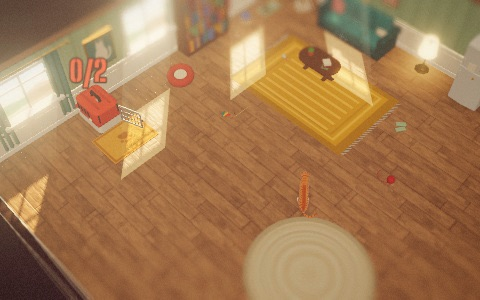
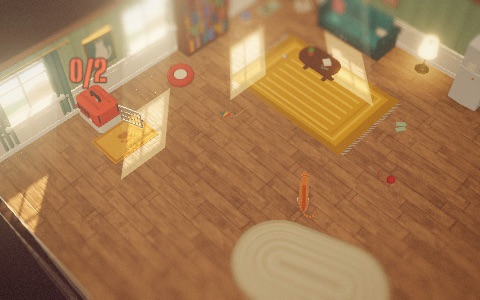
Oval braided rugs laid along the free floor; room cards and store pictures redrawn

Changed region(s): [[0.4688, 0.72, 0.75, 0.99], [0.75, 0.84, 0.8125, 1.0]]

diff --git a/src/render/room.js b/src/render/room.js
@@ -770,31 +770,62 @@ function plaidTexture(color) {
     return new THREE.MeshStandardMaterial({ map: t, roughness: 0.97 });
   });
 }
-/** A braided rag rug: narrow rings close in tone (the main colour and its shades), now and then an accent, each ring
- * twisted; a darker edge. Tonal, so it reads as a woven mat and not a target. */
+/**
+ * A braided oval rag rug: narrow rings round a centre seam (a stadium), close in tone (the main colour and its shades), now
+ * and then an accent, each ring twisted; a darker edge. Transparent outside the oval (the mesh alpha-tests it).
+ */
+const BRAID_W = 416, BRAID_H = 256, BRAID_ASPECT = BRAID_W / BRAID_H;
 function braidTexture(cols) {
-  return mat(`braid:${cols.join()}`, () => canvasTex(256, 256, (g, w) => {
-    const c = w / 2;
+  return mat(`braid:${cols.join()}`, () => canvasTex(BRAID_W, BRAID_H, (g, w, h) => {
+    const cy = h / 2, R = h / 2 - 1, half = w / 2 - h / 2, c1 = w / 2 - half, c2 = w / 2 + half;
     let seed = hashStr(cols.join()) || 1;
     const rnd = () => { seed = (seed * 16807) % 2147483647; return seed / 2147483647; };
     const main = cols[0];
     const tones = [main, shade(main, 0.05), shade(main, -0.05), shade(main, 0.09)];
-    g.fillStyle = shade(main, -0.22); g.fillRect(0, 0, w, w);
-    const band = 5.2;
-    for (let r = c - 1, i = 0; r > 3; r -= band, i++) {
-      // the edge a shade darker, accents only through the middle (a plain centre, so no bullseye)
-      const accent = r > c * 0.3 && r < c * 0.85 && rnd() < 0.14;
+    const stadium = (d) => {
+      g.beginPath();
+      g.moveTo(c1, cy - d); g.lineTo(c2, cy - d);
+      g.arc(c2, cy, d, -Math.PI / 2, Math.PI / 2);
+      g.lineTo(c1, cy + d);
+      g.arc(c1, cy, d, Math.PI / 2, Math.PI * 1.5);
+      g.closePath();
+    };
+    // a point on the stadium at offset d, `s` along its edge, with its outward normal
+    const at = (d, s) => {
+      const L = c2 - c1, arc = Math.PI * d;
+      if (s < L) return [c1 + s, cy - d, 0, -1];
+      s -= L;
+      if (s < arc) { const a = -Math.PI / 2 + s / d; return [c2 + Math.cos(a) * d, cy + Math.sin(a) * d, Math.cos(a), Math.sin(a)]; }
+      s -= arc;
+      if (s < L) return [c2 - s, cy + d, 0, 1];
+      s -= L;
+      const a = Math.PI / 2 + s / d;
+      return [c1 + Math.cos(a) * d, cy + Math.sin(a) * d, Math.cos(a), Math.sin(a)];
+    };
+    stadium(R);
+    g.fillStyle = shade(main, -0.22);
+    g.fill();
+    const band = 5.4;
+    for (let d = R, i = 0; d > band * 0.6; d -= band, i++) {
+      // the edge a shade darker, accents only through the middle
+      const accent = d > R * 0.3 && d < R * 0.85 && rnd() < 0.14;
       const col = i < 2 ? shade(main, -0.1) : accent ? cols[1 + Math.floor(rnd() * (cols.length - 1))] : tones[Math.floor(rnd() * tones.length)];
+      const mid = Math.max(1, d - band / 2);
       g.lineWidth = band - 0.4; g.strokeStyle = col;
-      g.beginPath(); g.arc(c, c, Math.max(1, r - band / 2), 0, Math.PI * 2); g.stroke();
+      stadium(mid);
+      g.stroke();
       g.lineWidth = 1; g.strokeStyle = shade(col, -0.12);
-      const n = Math.max(6, Math.round((r * Math.PI * 2) / 3.6));
-      const lean = i % 2 ? 0.05 : -0.05;
+      const P = 2 * (c2 - c1) + 2 * Math.PI * mid;
+      const n = Math.max(6, Math.round(P / 3.6));
+      const lean = i % 2 ? 1.6 : -1.6;
+      g.beginPath();
       for (let j = 0; j < n; j++) {
-        const a = (j / n) * Math.PI * 2;
-        const r0 = r - band + 0.8, r1 = r - 0.8;
-        g.beginPath(); g.moveTo(c + Math.cos(a) * r0, c + Math.sin(a) * r0); g.lineTo(c + Math.cos(a + lean) * r1, c + Math.sin(a + lean) * r1); g.stroke();
+        const [x, y, nx, ny] = at(mid, (j / n) * P);
+        const k = band / 2 - 0.8;
+        g.moveTo(x - nx * k, y - ny * k);
+        g.lineTo(x + nx * k - ny * lean, y + ny * k + nx * lean);
       }
+      g.stroke();
     }
   }));
 }
@@ -1015,10 +1046,23 @@ function decorate(room, world, quality) {
       const r = Math.min(1.55, best.d - 0.2);
       roundRugs.push({ x: best.x, z: best.z, r });
       const cols = BRAIDS[(hashStr(room.id ?? '') + n) % BRAIDS.length];
-      const rugM = new THREE.Mesh(dgeo('roundRug', () => new THREE.CylinderGeometry(1, 1, 0.016, 56)), mat(`braidM:${cols.join()}`, () => new THREE.MeshStandardMaterial({ map: braidTexture(cols), roughness: 0.97 })));
-      rugM.scale.set(r, 1, r * (0.82 + rng() * 0.18));
-      rugM.rotation.y = rng() * Math.PI;
-      rugM.position.set(best.x, 0.008, best.z);
+      // an oval, its long way along whichever direction has the most room at both ends
+      const wid = 1.5 * r, len = wid * BRAID_ASPECT, reach = (len - wid) / 2;
+      let ang = 0, bestEnd = -Infinity;
+      for (let k = 0; k < 8; k++) {
+        const t = (k / 8) * Math.PI + rng() * 0.05;
+        const ex = Math.cos(t) * reach, ez = Math.sin(t) * reach;
+        roundRugs.pop();
+        const e = Math.min(room4(best.x + ex, best.z + ez), room4(best.x - ex, best.z - ez));
+        roundRugs.push({ x: best.x, z: best.z, r });
+        if (e > bestEnd) { bestEnd = e; ang = t; }
+      }
+      roundRugs[roundRugs.length - 1].r = len / 2;
+      const rugM = new THREE.Mesh(dgeo('ovalRug', () => new THREE.PlaneGeometry(BRAID_ASPECT, 1).rotateX(-Math.PI / 2)),
+        mat(`braidM:${cols.join()}`, () => new THREE.MeshStandardMaterial({ map: braidTexture(cols), roughness: 0.97, alphaTest: 0.5 })));
+      rugM.scale.set(wid, 1, wid);
+      rugM.rotation.y = -ang;
+      rugM.position.set(best.x, 0.012, best.z);
       rugM.receiveShadow = true;
       group.add(rugM);
     }

diff --git a/src/poster.js b/src/poster.js
@@ -267,7 +267,8 @@ const SCENES = {
 
   // the icon: the carrier and a cat on its doormat, nothing else
   icon(view, stage) {
-    const g = room(ROOMS.studio);
+    // no floor clutter: one subject
+    const g = room({ ...ROOMS.studio, decor: false });
     const k = g.carriers[0];
     cat(g, 'moggy', 'ginger', k.matX + 0.25, k.matZ + 0.05, S.content, { h: Math.PI * 0.82 });
     view.show(g, { people: [], me: -1, total: 'solo' });
